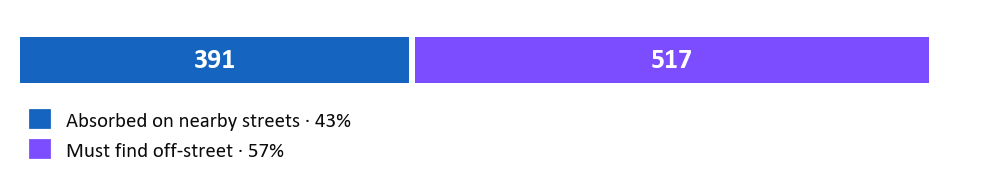
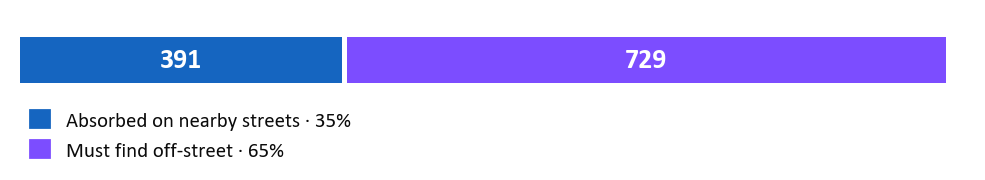
Rebase surveyed displacement on the v2 conceptual design
The RetainedRemoved flags came from hand-maintained sheets in the survey
workbooks, not from any design file, so re-running the pipeline against v2
was a no-op by construction. Deriving the flags from the design geometry
instead moves Kentron and Komitas — the only two surveyed areas the v2 design
geometrically reaches. The other four keep their existing flags: the KMZ lists
only retained parking, so "no segment nearby" cannot distinguish "all removed
here" from "the redesign does not cover this street", and it does not reach
Garegin Nzhdeh, Shiraz or Gai at all.

Surveyed removal 1,643 -> 1,886 spaces, displaced demand 908 -> 1,120.
Displaced vs removed 55% -> 59%; absorbed on-street 43% -> 35%. Capacity
behind gates stays 92% — it is the residential-yard share of off-street stock,
independent of kerb removal.

- gen_retained_review.mjs: propose flags from the design, for review only.
- apply_retained_review.mjs: apply approved flags onto the geojson. NOTE this
  is not yet permanent — convert_field_surveys.mjs re-reads the workbooks and
  reverts it. The Proposed column still has to reach Kentron - Analysis.xlsx
  and Parking Survey Sheet v5.xlsx.
- compute_field_survey_metrics.mjs: print occupancy on both time bases every
  run. Headline occupancy sums each zone's own peak hour; displacement uses one
  shared clock hour. Both are legitimate and they are not comparable — 93% vs
  61% across the six areas — and they sit side by side on slide 4.
[…]

diff --git a/app/src/lib/config/story.js b/app/src/lib/config/story.js
@@ -339,11 +339,11 @@ export const STORY_STEPS = [
 					],
 				},
 				stats: [
-					{ value: 908, label: 'Cars Displaced (Peak Hour)', color: '#EF5350' },
-					{ value: 1643, label: 'Spaces Removed', color: '#b0455a' },
+					{ value: 1120, label: 'Cars Displaced (Peak Hour)', color: '#EF5350' },
+					{ value: 1886, label: 'Spaces Removed', color: '#b0455a' },
 					{ value: 391, label: 'Nearby On-Street', color: '#ffd60a' },
 					{ value: 1935, label: 'Nearby Off-Street', color: '#7c4dff' },
-					{ value: 43, label: '% Absorbed On-Street', color: '#ffd60a' },
+					{ value: 35, label: '% Absorbed On-Street', color: '#ffd60a' },
 					{ value: 100, label: '% Absorbed Total', color: '#00e5ff' },
 				],
 			},

diff --git a/apply_slides_23072026.py b/apply_slides_23072026.py
@@ -6,9 +6,45 @@
 # design, and the Nalbandyan016 segment (14 Zone A spaces, tagged impact=corridor but
 # lying wholly outside every corridor boundary) is excluded. All figures are derived
 # from the same GeoJSON the web app serves.
+import json
 import shutil
 from pptx import Presentation
 from pptx.util import Inches
+
+# Surveyed-area displacement is read from the GeoJSON rather than typed, so the slide
+# cannot drift from the metrics run that produced it. These are a different scope from
+# the corridor-wide figures below: six sampled areas, measured, not the whole corridor.
+with open('app/static/data/wgs84/field-surveys.geojson', encoding='utf-8') as fh:
+    DISP = json.load(fh)['displacement']
+D_REMOVED = DISP['removed_supply']      # 1,886
+D_DISPLACED = DISP['removed_demand']    # 1,120
+D_ONSTREET = DISP['absorb_onstreet']    # 391 — unchanged by the design revision
+D_RATIO = round(100.0 * D_DISPLACED / D_REMOVED)        # 59%
+D_ABSORB = round(100.0 * D_ONSTREET / D_DISPLACED)      # 35%
+YARD_DEP = 92   # residential-yard share of off-street stock; independent of kerb removal
+
+# Per-area rows for slide 4, read from the same areaStats the app's dashboard uses.
+with open('app/static/data/wgs84/field-surveys.geojson', encoding='utf-8') as fh:
+    _AREA_STATS = json.load(fh)['areaStats']
+
+
+def area_row(key):
+    """(spaces removed, displaced as % of removed, on-street absorption %) for an area."""
+    s = {x['label']: x['value'] for x in _AREA_STATS[key]['displacement']}
+    removed = s['Spaces Removed']
+    displaced = s['Cars Displaced (Peak Hour)']
+    return removed, round(100.0 * displaced / removed) if removed else 0, s['% Absorbed On-Street']
+
+
+# slide-4 row order → the shape names holding removed / displaced / re-absorbed
+SLIDE4_ROWS = {
+    'kentron': ('TextBox 21', 'TextBox 22', 'TextBox 23'),
+    'mega':    ('TextBox 31', 'TextBox 32', 'TextBox 33'),
+    'komitas': ('TextBox 42', 'TextBox 43', 'TextBox 44'),
+    'garegin': ('TextBox 52', 'TextBox 53', 'TextBox 54'),
+    'shiraz':  ('TextBox 63', 'TextBox 64', 'TextBox 65'),
+    'malatia': ('TextBox 73', 'TextBox 74', 'TextBox 75'),
+}
 
 SRC = r'C:/Users/user/Yerevan-Parking/Final Presentation/Parking Slides - 22072026.pptx'
 DST = r'C:/Users/user/Yerevan-Parking/Final Presentation/Parking Slides - 23072026.pptx'
@@ -53,6 +89,29 @@ TEXT_EDITS = {
                        'Kentron (Nalbandyan 69, Abovyan 46, Amiryan 43); Zone B is almost entirely '
                        'Komitas Avenue (522 of 534).'),
     },
+    4: {
+        # These two columns are both percentages with DIFFERENT bases — displaced is over
+        # spaces removed, re-absorbed is over displaced cars — so each heading names its
+        # own denominator. Read as a matching pair they invite the misreading that both
+        # are shares of demand.
+        'TextBox 10': 'Displaced\n(% of spaces removed)',
+        'TextBox 11': 'Re-absorbed\n(% of displaced)',
+        'TextBox 80': (f'•  Kentron and Komitas peak over capacity yet re-absorb only '
+                       f'{area_row("kentron")[2]}% and {area_row("komitas")[2]}% nearby; Malatia-Sebastia '
+                       f'peaks at 54% and re-absorbs {area_row("malatia")[2]}% — so the package is applied '
+                       'by zone, not uniformly.'),
+        # The two columns rest on different time bases and a reader doing the arithmetic
+        # will notice; state it rather than let it be discovered.
+        'TextBox 81': ('Peak occupancy = distinct vehicles over the busiest hour ÷ spaces; above 100% means '
+                       'more distinct vehicles than spaces used the kerb in that hour. It sums each zone\'s '
+                       'own peak hour, so zones busiest at different times are added together. Displaced '
+                       '(% of spaces removed) instead counts one shared clock hour — a stricter basis, so '
+                       'the two columns are not directly comparable; on the single-hour basis Kentron reads '
+                       '89% and Komitas 83%. Surveyed areas only, not corridor-wide. Source: field occupancy '
+                       'survey, 29 May – 3 June 2026.'),
+        **{name: value for key, shapes in SLIDE4_ROWS.items()
+           for name, value in zip(shapes, (f'{area_row(key)[0]:,}', f'{area_row(key)[1]}%', f'{area_row(key)[2]}%'))},
+    },
     6: {
         'TextBox 3':  f'The conceptual cross-section removes {100 * REMOVED / ON_CORRIDOR:.0f}% of on-corridor parking',
         'TextBox 6':  'CORRIDORS 1 & 2 · impact of the conceptual design',
@@ -61,13 +120,23 @@ TEXT_EDITS = {
         'TextBox 14': f'{REMOVED:,}',
         'TextBox 18': f'{100 * REMOVED / ON_CORRIDOR:.0f}%',
         'TextBox 22': f'{RETAINED:,}',
-        'TextBox 42': ('The 55% is the displaced demand set against the spaces removed in the same six '
-                       'areas (908 vehicles ÷ 1,643 spaces): the kerb is not full at the moment, so '
-                       'fewer vehicles need re-homing than spaces are lost. Corridor-wide figures cover '
-                       'Corridors 1 and 2 only — Corridor 3 is excluded pending its conceptual design '
+        'TextBox 30': f'{D_RATIO}%',
+        'TextBox 34': f'{D_ABSORB}%',
+        'TextBox 38': f'{YARD_DEP}%',
+        'TextBox 40': (f'Open and manage the yards BEFORE removing kerb: nearby streets absorb only '
+                       f'{D_ABSORB}% (10% in Kentron, 0% in Komitas). Re-absorption reaches ~100% only '
+                       f'via off-street, and {YARD_DEP}% of that is gated residential yards.'),
+        'TextBox 42': (f'The {D_RATIO}% is the displaced demand set against the spaces removed in the same six '
+                       f'areas ({D_DISPLACED:,} vehicles ÷ {D_REMOVED:,} spaces): the kerb is not full at the '
+                       'moment, so fewer vehicles need re-homing than spaces are lost. Corridor-wide figures '
+                       'cover Corridors 1 and 2 only — Corridor 3 is excluded pending its conceptual design '
                        '— and will be updated once that design is finalized.'),
     },
 }
+
+# The left-hand chart on slide 6 renders the removed/displaced pair as an image, so the
+# text edits above would otherwise leave it showing the superseded 1,643 / 908.
+PICTURE_SWAPS = {6: {'Picture 27': 'Final Presentation/.slide-assets/chart_displacement.png'}}
 
 # Stacked regulatory bar on slide 2: the segment widths encode the shares, so the text
 # edits above are not enough on their own. Rebuilt left-to-right across the same span.
@@ -77,18 +146,48 @@ BAR_SEGMENTS = [('Rectangle 23', FREE), ('Rectangle 24', ZONE_B),
 
 
 def set_text(shape, new):
-    """Replace a shape's text, keeping the first run's formatting.
+    """Replace a shape's text, keeping each paragraph's existing run formatting.
 
     Hand-editing in PowerPoint has split these paragraphs into several runs that all
-    share the same size/bold/colour, so collapsing to one run is lossless here — and
-    far safer than text_frame.text, which drops formatting entirely.
+    share the same size/bold/colour, so collapsing to one run per paragraph is lossless
+    here — and far safer than text_frame.text, which drops formatting entirely.
+
+    Newlines map onto existing paragraphs one-for-one (the two-line column headings on
+    slide 4 are genuine separate paragraphs, not line breaks inside one). Surplus
+    paragraphs are removed; asking for more lines than the shape has is an error rather
+    than a silent half-write.
     """
-    para = shape.text_frame.paragraphs[0]
-    if not para.runs:
-        raise ValueError(f'{shape.name}: no runs to inherit formatting from')
-    para.runs[0].text = new
-    for run in para.runs[1:]:
-        run._r.getparent().remove(run._r)
+    paras = shape.text_frame.paragraphs
+    lines = new.split('\n')
+    if len(lines) > len(paras):
+        raise ValueError(f'{shape.name}: {len(lines)} lines requested but shape has {len(paras)} paragraphs')
+    for para, line in zip(paras, lines):
+        if not para.runs:
+            raise ValueError(f'{shape.name}: no runs to inherit formatting from')
+        para.runs[0].text = line
+        for run in para.runs[1:]:
+            run._r.getparent().remove(run._r)
+    for para in paras[len(lines):]:
+        para._p.getparent().remove(para._p)
+
+
+def replace_picture(slide, shape, image_path):
+    """Swap a picture's image, keeping its exact position, size and z-order.
+
+    Inserting and deleting is safer than rewriting the image part in place: image parts
+    are shared between shapes that use the same file, so overwriting the blob would hit
+    every other slide using it. The new element is moved back to the old one's index so
+    stacking order is preserved.
+    """
+    old = shape._element
+    idx = list(old.getparent()).index(old)
+    new_shape = slide.shapes.add_picture(image_path, shape.left, shape.top,
+                                         shape.width, shape.height)
+    new = new_shape._element
+    new.getparent().remove(new)
+    old.getparent().insert(idx, new)
+    old.getparent().remove(old)
+    return new_shape
 
 
 shutil.copyfile(SRC, DST)
@@ -107,6 +206,16 @@ for idx, edits in TEXT_EDITS.items():
         if before != new:
             print(f'  s{idx} {name:<12} {before[:58]!r}\n       -> {new[:58]!r}')
         applied += 1
+
+for idx, swaps in PICTURE_SWAPS.items():
+    slide = prs.slides[idx - 1]
+    by_name = {sh.name: sh for sh in slide.shapes}
+    for name, path in swaps.items():
+        if name not in by_name:
+            missing.append(f'slide {idx} / {name}')
+            continue
+        replace_picture(slide, by_name[name], path)
+        print(f'  s{idx} {name:<12} image <- {path}')
 
 # rebuild the stacked bar
 slide2 = {sh.name: sh for sh in prs.slides[1].shapes}

diff --git a/gen_parking_slide_charts.py b/gen_parking_slide_charts.py
@@ -188,7 +188,9 @@ def chart_displacement(disp, path):
     ax.set_yticks([0, 1])
     ax.set_yticklabels([r[0] for r in rows], fontsize=8.5, color=INK)
     ax.invert_yaxis()
-    ax.set_xlim(0, 1980)
+    # derived, not fixed: the headroom has to keep the value label inside the axes,
+    # and these figures move whenever the conceptual design is revised
+    ax.set_xlim(0, max(r[1] for r in rows) * 1.18)
     ax.set_xticks([])
     bare(ax)
     fig.tight_layout(pad=0.3)
@@ -215,7 +217,9 @@ def chart_absorption(disp, path):
                         % round(100.0 * need_off / disp["removed_demand"])],
               loc="lower left", bbox_to_anchor=(0, -0.85), ncol=1, fontsize=7.5,
               frameon=False, handlelength=0.9, handleheight=0.9, borderpad=0)
-    ax.set_xlim(0, 950)
+    # the two segments span the whole displaced-demand figure, so the limit must
+    # follow it — a fixed value silently clips the bar when demand rises
+    ax.set_xlim(0, (on + 6 + need_off) * 1.02)
     ax.set_ylim(-0.45, 0.45)
     ax.set_xticks([]), ax.set_yticks([])
     bare(ax)